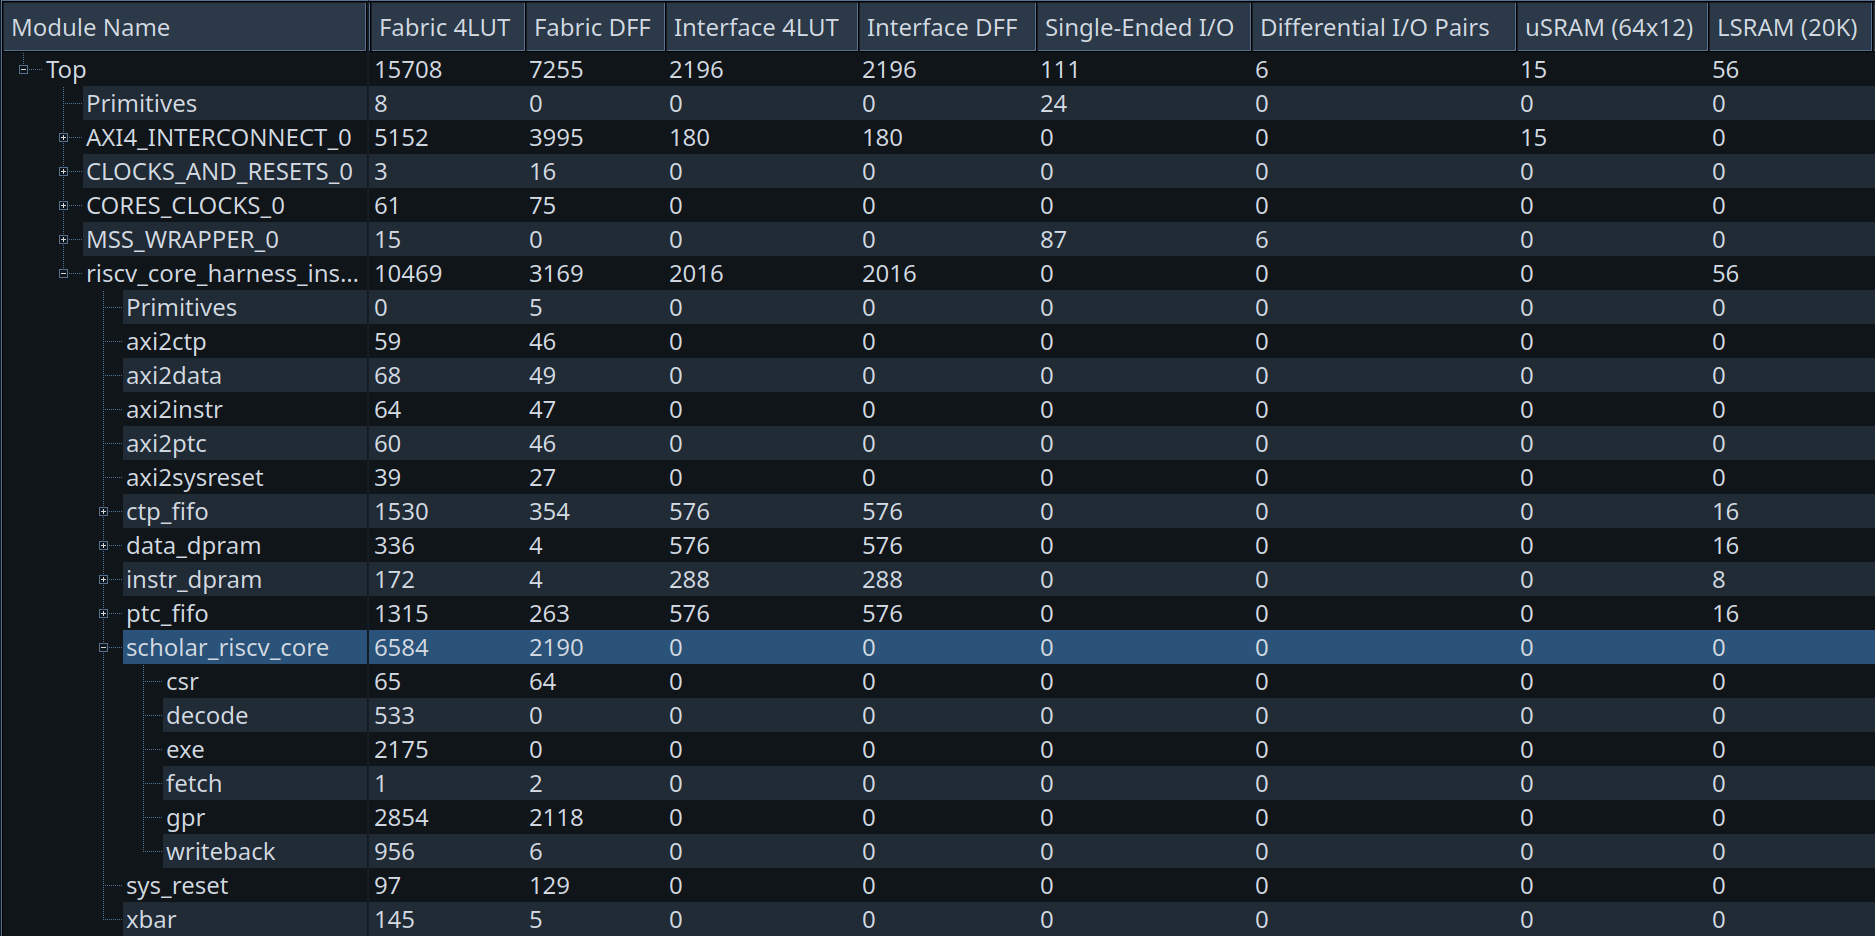
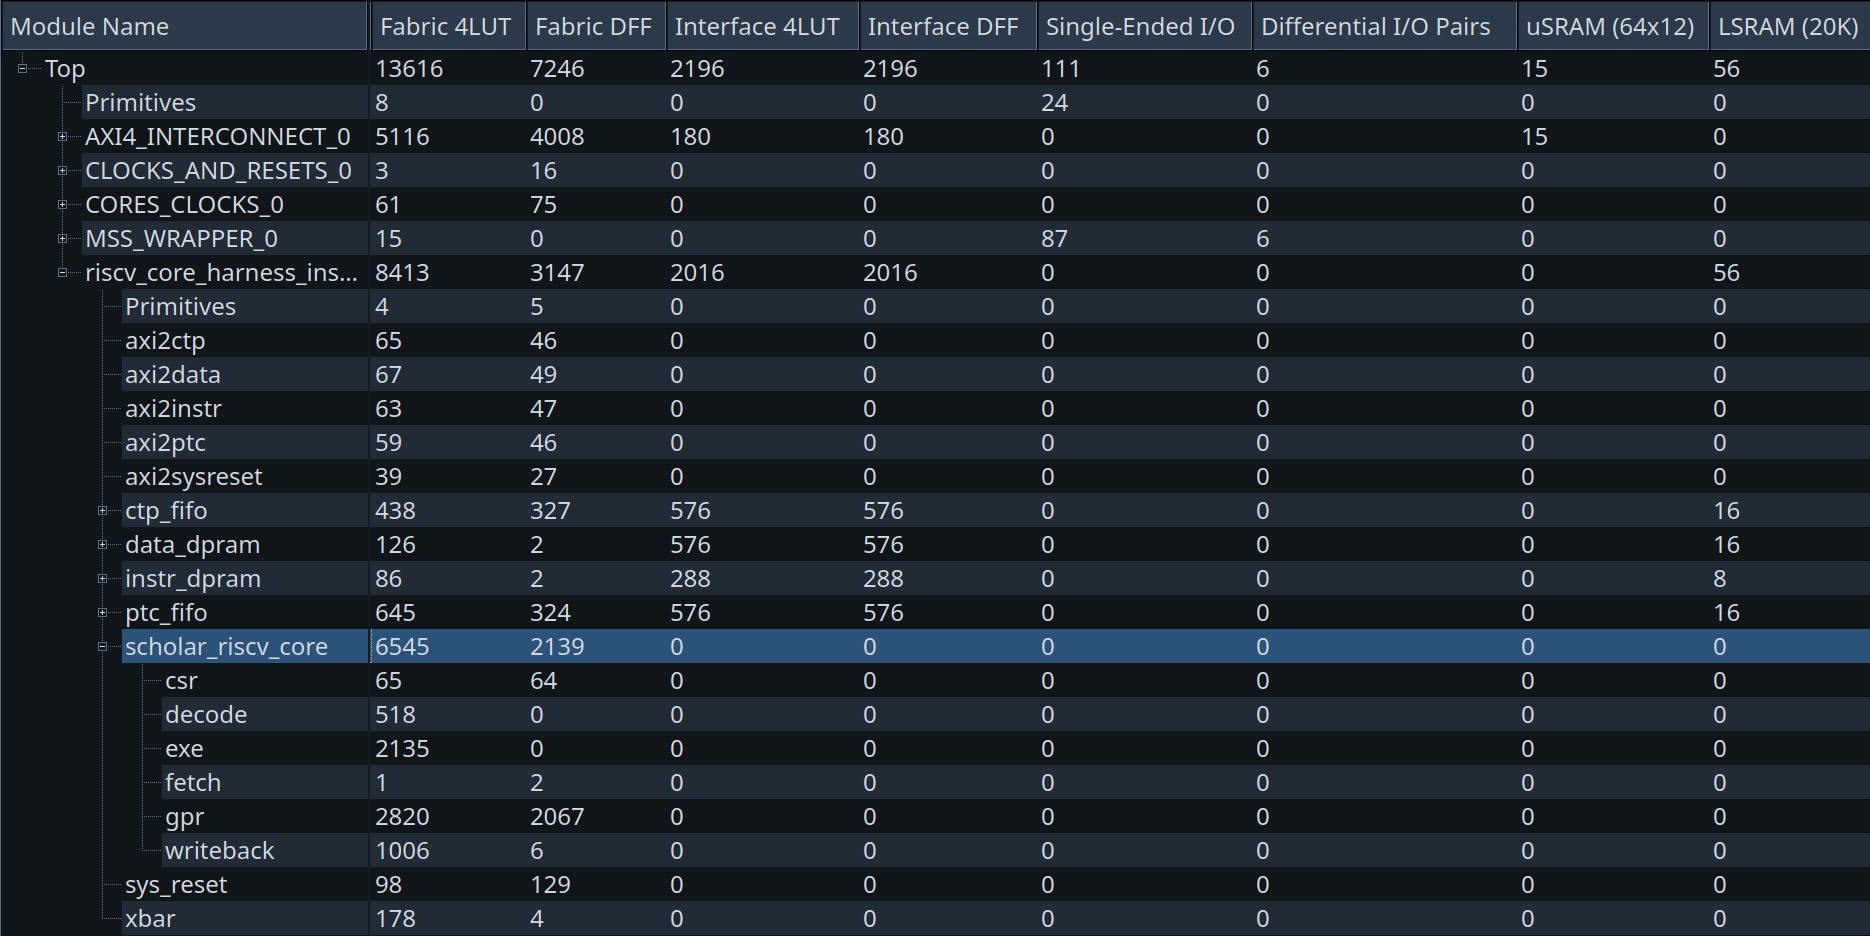
chore: Update riscv-core-harness version
This update influence P&R which improves core frequency.

diff --git a/README.md b/README.md
@@ -1,11 +1,11 @@
-# SCHOLAR RISC-V Processor – Single-cycle Microarchitecture
+# Scholar-risc-v Processor – Single-cycle Microarchitecture
 
-This document introduces the **SCHOLAR RISC-V** processor in its **single-cycle** version.<br>
-Designed as an educational project, **SCHOLAR RISC-V** illustrates the internal workings of a RISC-V processor while serving as a scalable learning platform for students in computer architecture and digital systems.
+This document introduces the **scholar-risc-v** processor in its **single-cycle** version.<br>
+Designed as an educational project, **scholar-risc-v** illustrates the internal workings of a RISC-V processor while serving as a scalable learning platform for students in computer architecture and digital systems.
 
 It provides an overview of the **single-cycle** microarchitecture, lists the supported instructions, explains how the processor operates at this stage of development, and discusses both its performance and limitations. Finally, it outlines the next planned steps for the project’s evolution.
 
-The **single-cycle SCHOLAR RISC-V** processor represents the most elementary implementation of the processor — a minimal, yet solid foundation for future architectural enhancements.<br>
+The **single-cycle scholar-risc-v** processor represents the most elementary implementation of the processor — a minimal, yet solid foundation for future architectural enhancements.<br>
 This version is **single-cycle** (each instruction executes in one clock cycle) and **single-issue** (only one instruction is processed at a time).<br>
 At this stage, the processor supports only the **RV32I** and **RV64I** base instruction sets, along with the mcycle **CSR** (used for CycleMark benchmarking).<br>
 This setup defines the minimal functional and performance baseline for a RISC-V processor — an ideal starting point for learning about more advanced architectural optimizations.
@@ -22,7 +22,7 @@ it is predictable (each instruction takes one cycle), easy to visualize, and str
 
 > 📝 
 >
-> Internal microarchitecture of the SCHOLAR RISC-V **single-cycle** processor.<br>
+> Internal microarchitecture of the scholar-risc-v **single-cycle** processor.<br>
 > The arrows represent the flow of an instruction through the fetch–decode–execute–writeback stages.<br>
 > For readability, clock and reset signals are omitted. <br>
 > A `^` symbol at the bottom of a block indicates a sequential (clocked) element. <br>
@@ -83,7 +83,7 @@ However, sub-modules of this repository are distributed under their own licenses
 
 ## Supported RISC-V Instructions 
 
-This section lists all base integer instructions implemented in the **SCHOLAR RISC-V** processor, including both **RV32I** and **RV64I** sets.<br>
+This section lists all base integer instructions implemented in the **scholar-risc-v** processor, including both **RV32I** and **RV64I** sets.<br>
 Each instruction is presented with its mnemonic, format, description, and pseudocode operation.
 
 These instructions form the foundation of the processor’s execution capabilities — covering arithmetic, logic, control flow, and memory operations.<br>
@@ -362,7 +362,7 @@ Examples: **JAL**.
 
 ## Supported features and results
 
-This first version of **SCHOLAR RISC-V** implements the **RV32I** (and optionally **RV64I**) base integer instruction set, along with the mcycle **CSR** from the **Zicntr** extension, used for performance benchmarking.
+This first version of **scholar-risc-v** implements the **RV32I** (and optionally **RV64I**) base integer instruction set, along with the mcycle **CSR** from the **Zicntr** extension, used for performance benchmarking.
 
 The design provides a functional, minimal RISC-V processor suitable for education and early experimentation.<br>
 It forms the foundation upon which more advanced features — such as pipelining, forwarding, and branch prediction — will later be added.
@@ -373,8 +373,8 @@ Below is a summary of synthesis results on a PolarFire MPFS095T FPGA:
 
 | **Architecture**              | **Features**                                    | **CycleMark/MHz** | **FPGA Resources & Performance (PolarFire MPFS095T)**                          |
 | ----------------------------- | ----------------------------------------------- | ----------------- | ------------------------------------------------------------------------------ |
-| **RV32I + `mcycle` (Zicntr)** | Single-cycle RISC-V processor                   | 1.24              | LEs: 3248 (1093 FFs)<br>Fmax: 75 MHz<br>uSRAM: 0<br>LSRAM: 0<br>Math blocks: 0 |
-| **RV64I + `mcycle` (Zicntr)** | Single-cycle RISC-V processor (64-bit datapath) | 1.05              | LEs: 6584 (2190 FFs)<br>Fmax: 69 MHz<br>uSRAM: 0<br>LSRAM: 0<br>Math blocks: 0 |
+| **RV32I + `mcycle` (Zicntr)** | Single-cycle RISC-V processor                   | 1.24              | LEs: 3220 (1093 FFs)<br>Fmax: 80 MHz<br>uSRAM: 0<br>LSRAM: 0<br>Math blocks: 0 |
+| **RV64I + `mcycle` (Zicntr)** | Single-cycle RISC-V processor (64-bit datapath) | 1.05              | LEs: 6545 (2139 FFs)<br>Fmax: 71 MHz<br>uSRAM: 0<br>LSRAM: 0<br>Math blocks: 0 |
 
 <br>
 
@@ -393,7 +393,7 @@ Students can directly observe how every instruction interacts with hardware — 
 
 In future versions, the same base design will evolve step by step toward higher-performance architectures, showing how each optimization (such as pipelining or multi-issue) builds upon this simple foundation.
 
-The SCHOLAR RISC-V processor follows exactly this structure.<br>
+The scholar-risc-v processor follows exactly this structure.<br>
 In its current form, it is a **single-cycle**, **single-issue** implementation — meaning that one instruction is fully executed per clock cycle.<br>
 Each step (**fetch**, **decode**, **execute**, and **writeback**) happens sequentially, but all within the same clock period.
 
@@ -425,7 +425,7 @@ This architecture is simple and ideal for understanding the complete flow of ins
 
 <br>
 
-### Instruction and memory assumptions
+### Instruction and memory assumptions (riscv-core-harness)
 
 To simplify analysis and maintain full visibility:
   - The instruction and data memories are assumed to be ideal single-cycle memories — any access completes in one clock cycle.
@@ -1138,7 +1138,7 @@ This is a common technique in bare-metal embedded systems: when there is no oper
 
 ### Execution Flow - Conclusion
 
-Through this sequence of six instructions, the **SCHOLAR RISC-V** processor demonstrates the complete life cycle of instruction execution — from fetching and decoding to execution, memory access, and program counter update.
+Through this sequence of six instructions, the **scholar-risc-v** processor demonstrates the complete life cycle of instruction execution — from fetching and decoding to execution, memory access, and program counter update.
 
 Each instruction showcases a different aspect of the datapath:
   - **AUIPC** illustrates address computation and immediate handling.
@@ -1168,15 +1168,15 @@ This detailed exploration also highlights the inherent trade-offs in **single-cy
 
 ![SCHOLAR_RISC-V_resources](./img/SCHOLAR_RISC-V_32bit_resources.png)
 
-The performance of the **SCHOLAR RISC-V** processor is evaluated using three key indicators:
+The performance of the **scholar-risc-v** processor is evaluated using three key indicators:
   - CycleMark/MHz — a normalized performance score derived from CoreMark.
   - Maximum frequency (Fmax) — the highest achievable clock rate on the FPGA.
   - Parallelism — the number of threads that can be executed simultaneously.
 
 | **Architecture**              | **CycleMark/MHz** | **FPGA Resources & Performance (PolarFire MPFS095T)**                          |
 | ----------------------------- | ----------------- | ------------------------------------------------------------------------------ |
-| **RV32I + `mcycle` (Zicntr)** | 1.24              | LEs: 3248 (1093 FFs)<br>Fmax: 75 MHz<br>uSRAM: 0<br>LSRAM: 0<br>Math blocks: 0 |
-| **RV64I + `mcycle` (Zicntr)** | 1.05              | LEs: 6584 (2190 FFs)<br>Fmax: 69 MHz<br>uSRAM: 0<br>LSRAM: 0<br>Math blocks: 0 |
+| **RV32I + `mcycle` (Zicntr)** | 1.24              | LEs: 3220 (1093 FFs)<br>Fmax: 80 MHz<br>uSRAM: 0<br>LSRAM: 0<br>Math blocks: 0 |
+| **RV64I + `mcycle` (Zicntr)** | 1.05              | LEs: 6545 (2139 FFs)<br>Fmax: 71 MHz<br>uSRAM: 0<br>LSRAM: 0<br>Math blocks: 0 |
 
 <br>
 <br>
@@ -1221,8 +1221,8 @@ However, memory operations (LOAD and STORE) require two cycles to complete, whic
 ### Resource Utilization and Cost Insights
 
 From a resource perspective, the processor remains relatively compact:
-  - 3248 logic elements (1093 flip-flops) for **RV32I**.
-  - 6584 logic elements (2190 flip-flops) for **RV64I**.
+  - 3220 logic elements (1093 flip-flops) for **RV32I**.
+  - 6545 logic elements (2139 flip-flops) for **RV64I**.
   - No block RAMs (uSRAM/LSRAM).
   - No hardware multipliers or DSP blocks.
 
@@ -1248,7 +1248,7 @@ This is why most practical architectures, whether in ASICs or FPGAs, use dedicat
 
 ## Conclusion
 
-This first version of the **SCHOLAR RISC-V** processor deliberately focuses on implementing a simple and accessible **RISC-V** design.<br>
+This first version of the **scholar-risc-v** processor deliberately focuses on implementing a simple and accessible **RISC-V** design.<br>
 It prioritizes clarity, visibility, and simplicity over performance, providing a clear introduction to the inner workings of a processor through detailed diagrams and execution flow examples.
 
 Its limited performance will later be improved through future enhancements, each explained in terms of both benefits and trade-offs.<br>